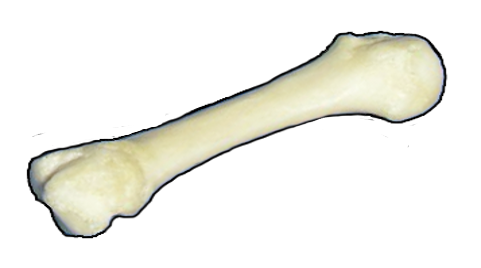
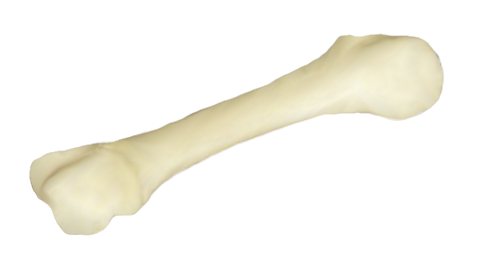
Modified some images, removed unused ones, and added credits for all the images.

diff --git a/radioactive-dating-game/src/js/models/simulation/dating-game.js b/radioactive-dating-game/src/js/models/simulation/dating-game.js
@@ -62,8 +62,8 @@ define(function (require, exports, module) {
             this.addItem('Rock 4',              Images.ROCK_B,           new Vector2( 600,  24),    46,      0, HalfLifeInfo.convertYearsToMs(723E6),   false);
             this.addItem('Rock 5',              Images.ROCK_C,           new Vector2( 900,  24),    46,      0, HalfLifeInfo.convertYearsToMs(1.25E9),  false);
             this.addItem('Dinosaur Skull',      Images.DINOSAUR_SKULL,   new Vector2( 960, 134),    80,      0, HalfLifeInfo.convertYearsToMs(155E6),   true);
-            this.addItem('Human Skull',         Images.HUMAN_SKULL,      new Vector2( 960, 250),    40,      0, HalfLifeInfo.convertYearsToMs(2200),    true);
-            this.addItem('Wooden Cup',          Images.CUP,              new Vector2( 700, 246),    40,  -PI/3, HalfLifeInfo.convertYearsToMs(1035),    true);
+            this.addItem('Human Skull',         Images.HUMAN_SKULL,      new Vector2( 960, 250),    30,      0, HalfLifeInfo.convertYearsToMs(2200),    true);
+            this.addItem('Wooden Cup',          Images.CUP,              new Vector2( 700, 246),    30,  -PI/3, HalfLifeInfo.convertYearsToMs(1035),    true);
             this.addItem('Bone',                Images.BONE,             new Vector2( 330, 246),    70,      0, HalfLifeInfo.convertYearsToMs(1450),    true);
             this.addItem('Human Skull',         Images.HUMAN_SKULL,      new Vector2( 450, 190),    30,      1, HalfLifeInfo.convertYearsToMs(40E3),    true);
             

diff --git a/radioactive-dating-game/src/js/assets-images.js b/radioactive-dating-game/src/js/assets-images.js
@@ -15,7 +15,6 @@ define(function (require) {
         ROCK_B_0:  'rock-b-0.png',
         ROCK_C  :  'rock-c.png',
         ROCK_C_0:  'rock-c-0.png',
-        ROCK_D:    'rock-d.png',
         ROCK_E:    'rock-e.png',
         ROCK_F:    'rock-f.png',
 
@@ -37,7 +36,7 @@ define(function (require) {
         FISH_FOSSIL:      'fish-fossil.png',
         FISH_BONES:       'fish-bones.png',
         DINOSAUR_SKULL:   'dinosaur_skull.png',
-        HUMAN_SKULL:      'skull_human.png',
+        HUMAN_SKULL:      'human-skull.png',
         CUP:              'cup.png',
         BONE:             'bone.png'
     };

diff --git a/radioactive-dating-game/src/img/credits.md b/radioactive-dating-game/src/img/credits.md
@@ -1,6 +1,14 @@
 Image Credits
 ===========
 
+**smoke-particle.png**: by Patrick Wolfert
+
+**dating-game-background.png**: by Patrick Wolfert
+
+**measurement-volcano.png**: by Patrick Wolfert
+
+**measurement-background.png**: by Patrick Wolfert
+
 **tree-1.png**: by Patrick Wolfert; based off of an image by Merlin2525, downloaded from https://openclipart.org/detail/125671/tree-trunk
 
 **tree-2.png**: by Patrick Wolfert; based off of an image by Merlin2525, downloaded from https://openclipart.org/detail/125671/tree-trunk
@@ -22,3 +30,29 @@ Image Credits
 **rock-c.png**: by glitch, downloaded from https://openclipart.org/detail/209749/harvestable-resources-rock-dullite-1
 
 **rock-c-0.png**: modified by Patrick Wolfert; based off of an image by glitch, downloaded from https://openclipart.org/detail/209749/harvestable-resources-rock-dullite-1
+
+**rock-e.png**: by glitch, downloaded from https://openclipart.org/detail/208784/alpine-landscape-rock-rubble-01g-al1
+
+**rock-f.png**: by glitch, downloaded from https://openclipart.org/detail/210396/misc-petrified-rock-small
+
+**village-house.png**: by rdevries, downloaded from https://openclipart.org/detail/181398/village-house
+
+**longhorn-skull.png**: by gnokii, downloaded from https://openclipart.org/detail/133387/longhorn-skull
+
+**human-skull.png**: by inky2010, downloaded from https://openclipart.org/detail/86479/skull
+
+**bone.png**: modified from original PhET simulation
+
+**fish-bones.png**: modified from original PhET simulation
+
+**fish-fossil.png**: modified from original PhET simulation
+
+**air-probe.png**: from original PhET simulation
+
+**dinosaur_skull.png**: from original PhET simulation
+
+**cup.png**: modified from original PhET simulation
+
+**geiger-probe.png**: from original PhET simulation
+
+**trilobyte_fossil.png**: from original PhET simulation
